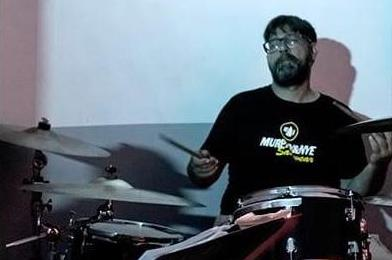
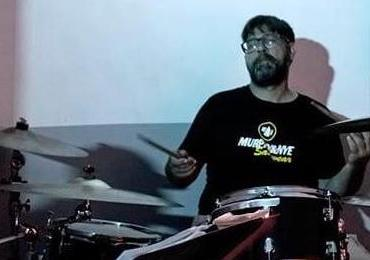
img-fix

diff --git a/src/Components/InfoPage/info.css b/src/Components/InfoPage/info.css
@@ -24,6 +24,8 @@
 .filterBW {
   filter: grayscale(1);
   transition: 1.2s;
+  min-height: 25vh;
+  max-height: 34vh;
 }
 .filterBW:hover {
   filter: grayscale(0);
